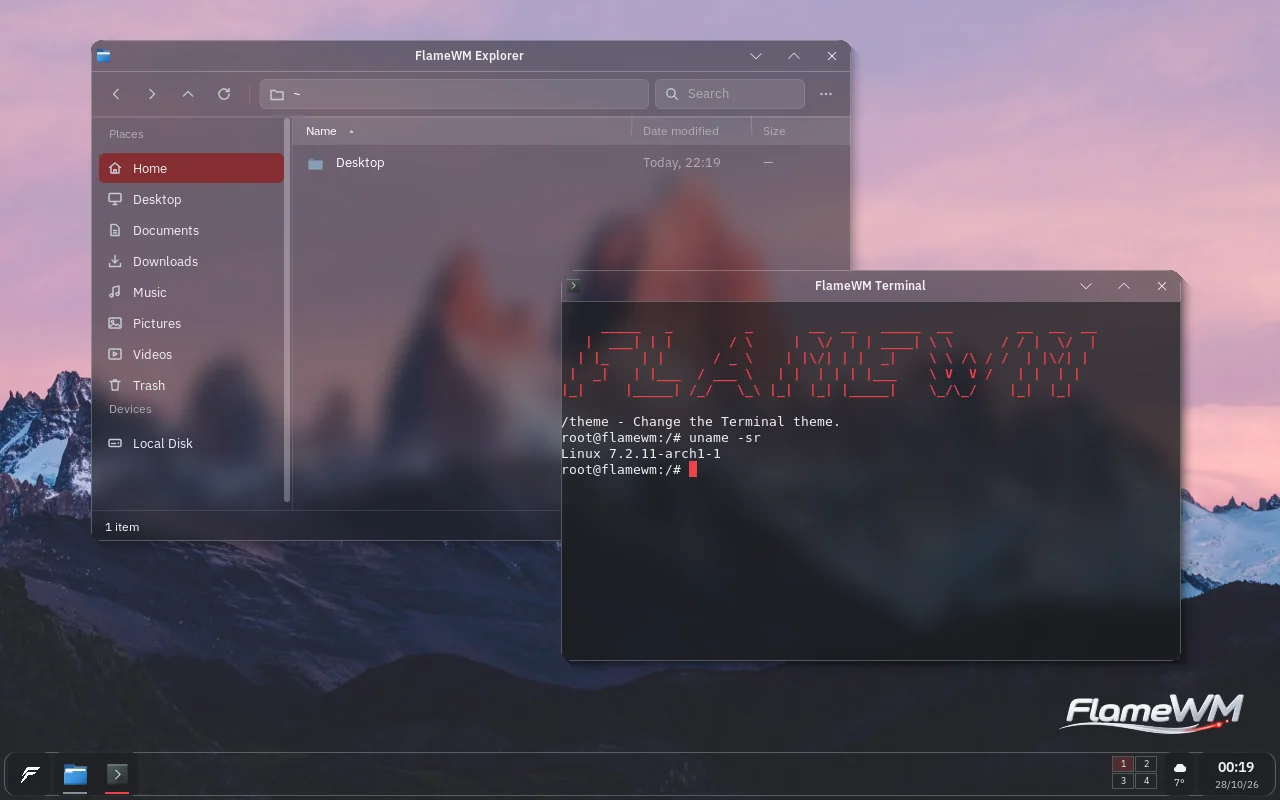
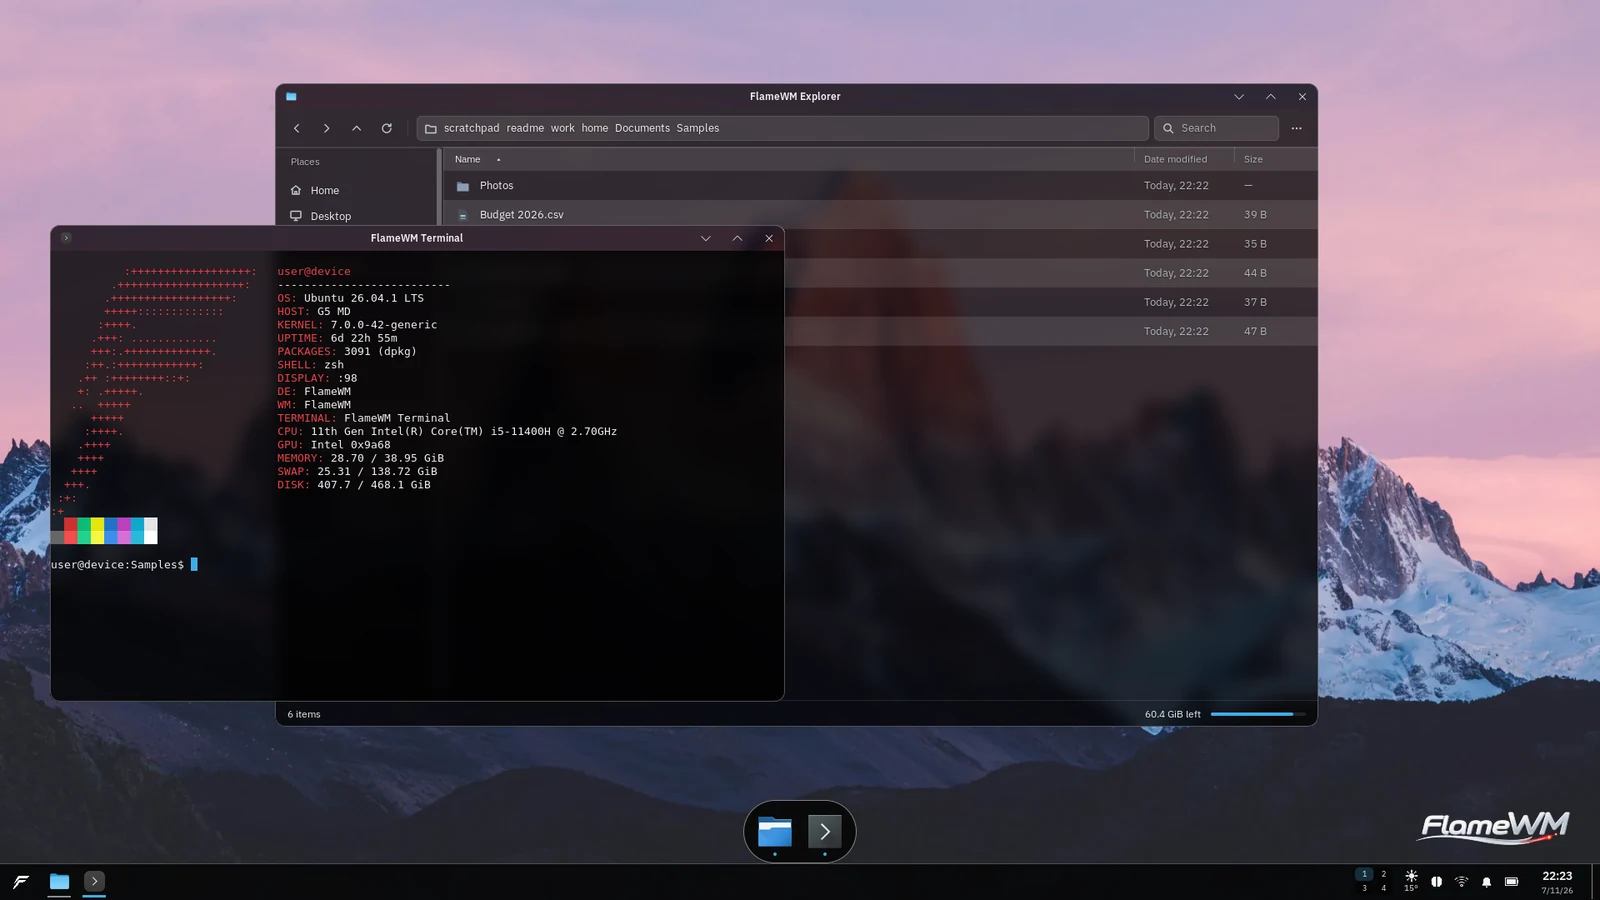
docs(readme): refresh previews with Dock and local overview screenshot
Replace the hosted overview image with assets/screenshots/overview.webp,
update desktop.webp to show the Dock enabled, and retake start-menu.webp
from a neutral isolated session.

diff --git a/README.md b/README.md
@@ -6,7 +6,7 @@
  </picture>
 </a>
 <img width="1080" height="1440" alt="image" src="https://github.com/user-attachments/assets/44501e7d-7012-47ee-9830-50ccb9caa126" />
-<img width="1344" height="637" alt="image" src="https://github.com/user-attachments/assets/409081ba-ebc5-4069-bf97-5eade755c685" />
+<img width="1344" height="756" alt="FlameWM desktop with a Terminal running flamefetch, an Explorer window, taskbar widgets and the clock" src="assets/screenshots/overview.webp" />
 
 # FlameWM
 
@@ -14,11 +14,11 @@ FlameWM is a window manager and desktop shell written in Rust. The shell UI is w
 
 The package ships two sessions: **FlameWM** on X11 (the default) and **FlameWM (Wayland)**.
 
-| Explorer and Terminal | Start menu |
+| Explorer, Terminal and Dock | Start menu |
 | --- | --- |
-| ![Explorer and Terminal over a blurred wallpaper](assets/screenshots/desktop.webp) | ![Start menu over translucent windows](assets/screenshots/start-menu.webp) |
+| ![Explorer and Terminal over a blurred wallpaper, with the Dock enabled at the bottom](assets/screenshots/desktop.webp) | ![Start menu over translucent windows](assets/screenshots/start-menu.webp) |
 
-The screenshots come from the headless test session (`tools/flamewm_visual_tests.py`) on Xorg's dummy driver.
+The screenshots come from an isolated FlameWM session on a private Xvfb display, with the default wallpaper, sample files and a neutral profile.
 
 ## Status
 
